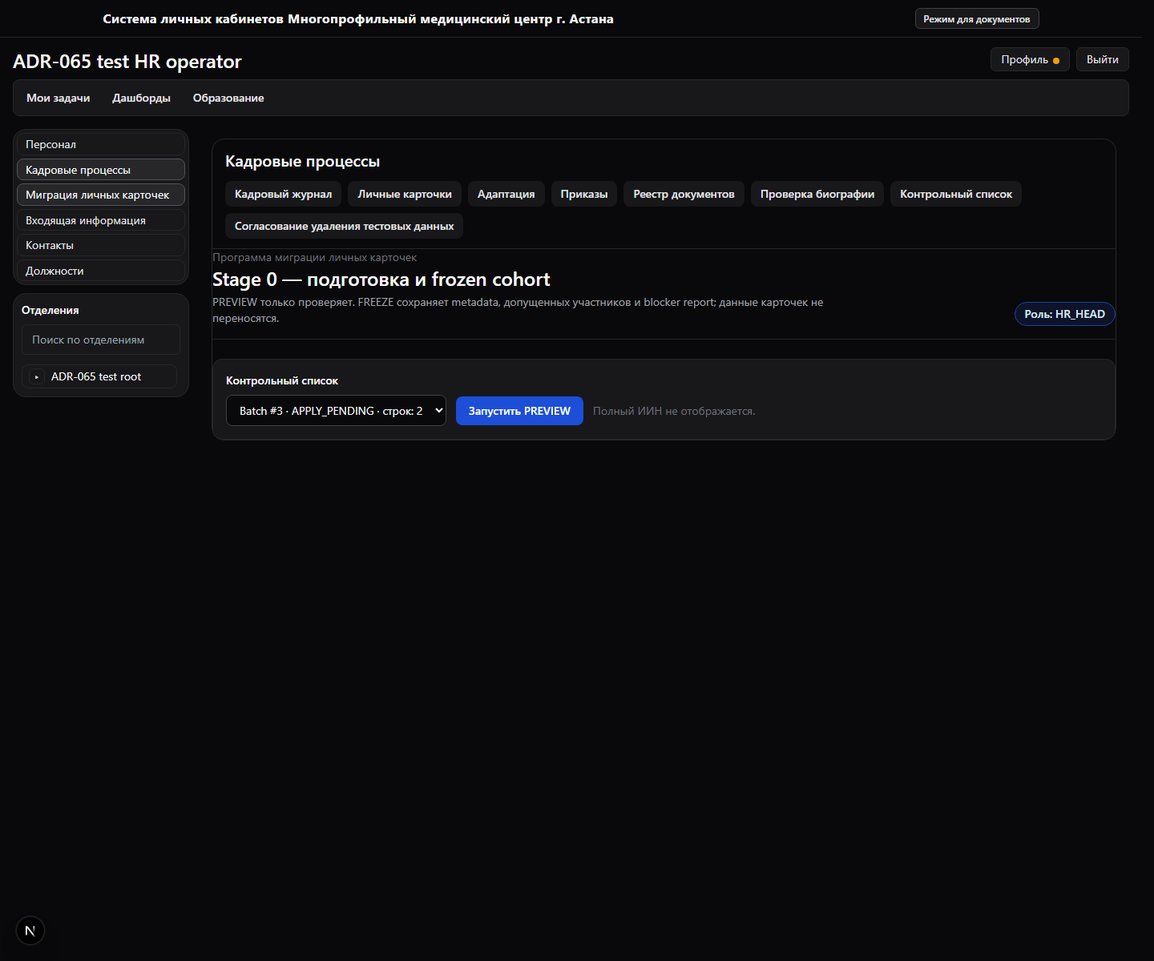
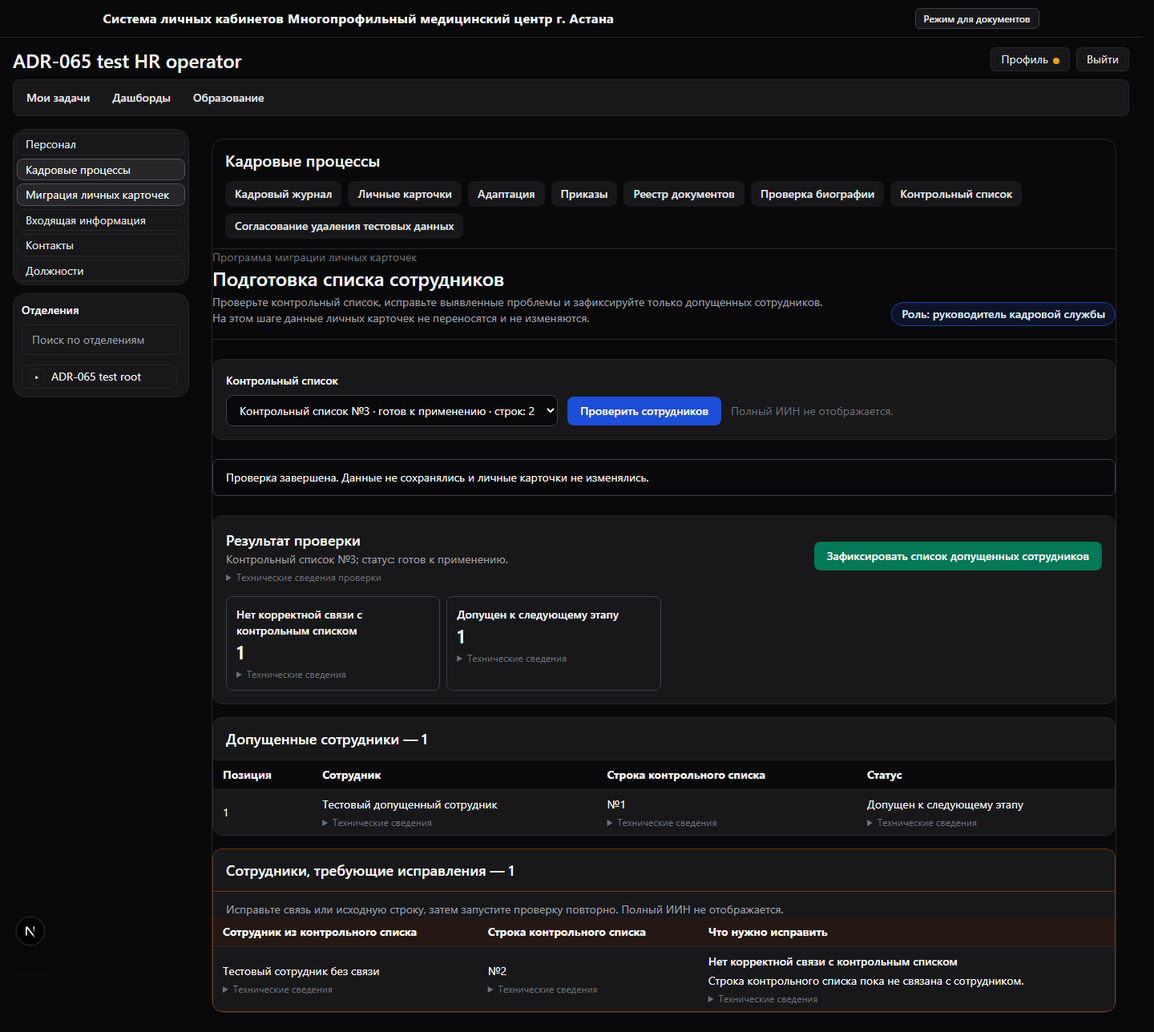
feat(ppr): improve stage zero cohort review UI

diff --git a/corpsite-ui/app/directory/personnel/ppr-migration/PprMigrationPageClient.tsx b/corpsite-ui/app/directory/personnel/ppr-migration/PprMigrationPageClient.tsx
@@ -1,69 +1,79 @@
 "use client";
 
-import { useEffect, useState } from "react";
+import { useEffect, useState, type ReactNode } from "react";
 
 import { apiAuthMe, apiFetchJson } from "@/lib/api";
 import type { MeInfo } from "@/lib/types";
 
 type Batch = { batch_id: number; status: string; imported_at?: string | null; source_row_count: number };
-type Candidate = { position?: number; employee_id: number | null; person_id: number | null; source_batch_id: number; source_row_id: number; safe_fingerprint: string; display_name?: string | null };
-type Blocker = { employee_id?: number | null; person_id?: number | null; source_batch_id?: number | null; source_row_id?: number | null; category: string; reason_code: string; safe_detail: string; candidate_key: string; display_name?: string | null };
+type Candidate = { position?: number; employee_id: number | null; person_id: number | null; source_batch_id: number; source_row_id: number; source_row_number?: number | null; safe_fingerprint: string; display_name?: string | null };
+type Blocker = { employee_id?: number | null; person_id?: number | null; source_batch_id?: number | null; source_row_id?: number | null; source_row_number?: number | null; category: string; reason_code: string; safe_detail: string; candidate_key: string; display_name?: string | null };
 type Preview = { source_batch_id: number; source_batch_status: string; preview_fingerprint: string; counts: Record<string, number>; eligible: Candidate[]; blockers: Blocker[] };
 type Frozen = { stage0_cohort_run_id: number; replay: boolean; counts: Record<string, number> };
 type Cohort = { run: { stage0_cohort_run_id: number; run_kind: string; source_batch_id: number; source_batch_status: string; frozen_at: string; preview_fingerprint: string }; participants: Candidate[] };
 
 const reasonLabels: Record<string, string> = {
-  STAGE0_SOURCE_EMPLOYEE_MISSING: "Источник не связан с сотрудником.",
-  STAGE0_EMPLOYEE_NOT_ACTIVE: "Сотрудник не является активным.",
-  STAGE0_EMPLOYEE_PERSON_MISSING: "Нет однозначной связи Employee → Person.",
-  STAGE0_PERSON_NOT_ACTIVE: "Person объединён, удалён или неактивен.",
-  STAGE0_MULTIPLE_OPERATIONAL_EMPLOYEES: "У Person несколько активных operational Employee.",
-  STAGE0_SOURCE_ANCHOR_NOT_UNIQUE: "В контрольном списке найдено несколько source anchor для сотрудника.",
-  STAGE0_BATCH_PENDING_REMOVALS: "В batch есть неурегулированные удаления; FREEZE запрещён.",
-  STAGE0_PPR_LIFECYCLE_NOT_MATERIALIZABLE: "Lifecycle PPR не допускает materialization/start collection.",
+  STAGE0_SOURCE_EMPLOYEE_MISSING: "Строка контрольного списка пока не связана с сотрудником.",
+  STAGE0_EMPLOYEE_NOT_ACTIVE: "Сотрудник не находится в активном кадровом статусе.",
+  STAGE0_EMPLOYEE_PERSON_MISSING: "Для сотрудника не найдена однозначная связь с личностью.",
+  STAGE0_PERSON_NOT_ACTIVE: "Связанная личность объединена, удалена или неактивна.",
+  STAGE0_MULTIPLE_OPERATIONAL_EMPLOYEES: "Для одной личности найдено несколько активных сотрудников.",
+  STAGE0_SOURCE_ANCHOR_NOT_UNIQUE: "Для сотрудника найдено несколько строк контрольного списка.",
+  STAGE0_BATCH_PENDING_REMOVALS: "В контрольном списке есть неурегулированные удаления; фиксация пока недоступна.",
+  STAGE0_PPR_LIFECYCLE_NOT_MATERIALIZABLE: "Текущий жизненный цикл личной карточки не допускает её подготовку.",
 };
 
-function apiMessage(error: any): string {
-  return String(error?.details?.message ?? error?.message ?? "Не удалось выполнить запрос.");
-}
+const categoryLabels: Record<string, string> = {
+  ELIGIBLE: "Допущен к следующему этапу",
+  BLOCKED_NO_PERSON: "Нет связи с личностью",
+  BLOCKED_AMBIGUOUS_PERSON: "Неоднозначная связь с личностью",
+  BLOCKED_PERSON_MERGED_OR_DELETED: "Личность недоступна",
+  BLOCKED_SOURCE_MISSING: "Нет корректной связи с контрольным списком",
+  BLOCKED_SOURCE_AMBIGUOUS: "Неоднозначная строка контрольного списка",
+  BLOCKED_SOURCE_STATUS: "Недопустимый статус контрольного списка",
+  BLOCKED_SOURCE_DELETION_OR_REBINDING: "Требуется урегулировать изменения контрольного списка",
+  BLOCKED_MATERIALIZATION_PATH: "Нет допустимого пути подготовки личной карточки",
+};
 
-function personLabel(row: { display_name?: string | null; employee_id?: number | null; person_id?: number | null }): string {
-  const name = String(row.display_name ?? "").trim();
-  const ids = `Employee #${row.employee_id ?? "—"} · Person #${row.person_id ?? "—"}`;
-  return name ? `${name} (${ids})` : ids;
-}
+const batchStatusLabels: Record<string, string> = {
+  APPLY_PENDING: "готов к применению",
+  APPLIED: "применён",
+  PARTIALLY_APPLIED: "применён частично",
+};
+
+function batchStatusLabel(status: string): string { return batchStatusLabels[status] ?? status; }
+function apiMessage(error: any): string { return String(error?.details?.message ?? error?.message ?? "Не удалось выполнить запрос."); }
+function personLabel(row: { display_name?: string | null; employee_id?: number | null }): string { return String(row.display_name ?? "").trim() || `Сотрудник #${row.employee_id ?? "—"}`; }
+function technicalIdentity(row: { employee_id?: number | null; person_id?: number | null }): string { return `ID сотрудника: ${row.employee_id ?? "—"}; ID личности: ${row.person_id ?? "—"}`; }
+function technicalCode(code: string): ReactNode { return <details className="mt-1 text-xs text-zinc-500"><summary className="cursor-pointer">Технические сведения</summary><span className="font-mono">{code}</span></details>; }
 
 export default function PprMigrationPageClient() {
   const [batches, setBatches] = useState<Batch[]>([]);
   const [batchId, setBatchId] = useState<number | null>(null);
   const [preview, setPreview] = useState<Preview | null>(null);
   const [cohort, setCohort] = useState<Cohort | null>(null);
+  const [freezeConfirmationOpen, setFreezeConfirmationOpen] = useState(false);
   const [loading, setLoading] = useState(true);
   const [busy, setBusy] = useState(false);
   const [message, setMessage] = useState<string>("");
 
-  useEffect(() => {
-    void (async () => {
-      try {
-        const me: MeInfo = await apiAuthMe();
-        if (String(me.role_code ?? "").toUpperCase() !== "HR_HEAD") { setMessage("Доступ к Stage 0 разрешён только HR_HEAD."); return; }
-        const response = await apiFetchJson<{ items: Batch[] }>("/personnel/ppr-migration/stage-0/source-batches");
-        setBatches(response.items);
-        if (response.items[0]) setBatchId(response.items[0].batch_id);
-      } catch (error) { setMessage(apiMessage(error)); }
-      finally { setLoading(false); }
-    })();
-  }, []);
+  useEffect(() => { void (async () => {
+    try {
+      const me: MeInfo = await apiAuthMe();
+      if (String(me.role_code ?? "").toUpperCase() !== "HR_HEAD") { setMessage("Доступ к подготовке списка сотрудников разрешён только руководителю кадровой службы."); return; }
+      const response = await apiFetchJson<{ items: Batch[] }>("/personnel/ppr-migration/stage-0/source-batches");
+      setBatches(response.items);
+      if (response.items[0]) setBatchId(response.items[0].batch_id);
+    } catch (error) { setMessage(apiMessage(error)); } finally { setLoading(false); }
+  })(); }, []);
 
   async function runPreview() {
     if (!batchId) return;
-    setBusy(true); setMessage(""); setCohort(null);
+    setBusy(true); setMessage(""); setCohort(null); setFreezeConfirmationOpen(false);
     try {
       const result = await apiFetchJson<Preview>("/personnel/ppr-migration/stage-0/preview", { method: "POST", body: { source_batch_id: batchId, correction_details: true } });
-      setPreview(result);
-      setMessage("PREVIEW завершён. Данные не записывались.");
-    } catch (error) { setMessage(apiMessage(error)); }
-    finally { setBusy(false); }
+      setPreview(result); setMessage("Проверка завершена. Данные не сохранялись и личные карточки не изменялись.");
+    } catch (error) { setMessage(apiMessage(error)); } finally { setBusy(false); }
   }
 
   async function freeze() {
@@ -72,33 +82,38 @@ export default function PprMigrationPageClient() {
     try {
       const result = await apiFetchJson<Frozen>("/personnel/ppr-migration/stage-0/freeze", { method: "POST", body: { source_batch_id: preview.source_batch_id, preview_fingerprint: preview.preview_fingerprint } });
       const saved = await apiFetchJson<Cohort>(`/personnel/ppr-migration/stage-0/runs/${result.stage0_cohort_run_id}?correction_details=true`);
-      setCohort(saved);
-      setMessage(result.replay ? `Сохранённый cohort #${result.stage0_cohort_run_id} открыт повторно (replay).` : `Cohort #${result.stage0_cohort_run_id} зафиксирован (FROZEN).`);
-    } catch (error) { setMessage(apiMessage(error)); }
-    finally { setBusy(false); }
+      setCohort(saved); setFreezeConfirmationOpen(false);
+      const accepted = result.counts.ELIGIBLE ?? 0;
+      const blocked = Object.entries(result.counts).filter(([status]) => status !== "ELIGIBLE").reduce((total, [, count]) => total + count, 0);
+      setMessage(result.replay ? `Ранее зафиксированный список №${result.stage0_cohort_run_id} открыт повторно. Личные карточки не изменялись.` : `Список допущенных сотрудников зафиксирован: ${accepted}; заблокировано: ${blocked}. Личные карточки и сведения в них не изменялись.`);
+    } catch (error) { setMessage(apiMessage(error)); } finally { setBusy(false); }
   }
 
-  if (loading) return <div className="rounded-xl border border-zinc-200 bg-white p-4 text-sm dark:border-zinc-800 dark:bg-zinc-900">Загрузка Stage 0…</div>;
+  const eligibleCount = preview?.counts.ELIGIBLE ?? 0;
+  const blockedCount = preview ? Object.entries(preview.counts).filter(([status]) => status !== "ELIGIBLE").reduce((total, [, count]) => total + count, 0) : 0;
+  if (loading) return <div className="rounded-xl border border-zinc-200 bg-white p-4 text-sm dark:border-zinc-800 dark:bg-zinc-900">Загрузка подготовки списка сотрудников…</div>;
   return <main className="space-y-6">
     <header className="flex flex-wrap items-end justify-between gap-3 border-b border-zinc-200 pb-4 dark:border-zinc-800">
-      <div><p className="text-sm text-zinc-500">Программа миграции личных карточек</p><h1 className="text-2xl font-semibold">Stage 0 — подготовка и frozen cohort</h1><p className="mt-1 max-w-3xl text-sm text-zinc-600 dark:text-zinc-400">PREVIEW только проверяет. FREEZE сохраняет metadata, допущенных участников и blocker report; данные карточек не переносятся.</p></div>
-      <span className="rounded-full border border-blue-300 bg-blue-50 px-3 py-1 text-sm font-medium text-blue-900 dark:border-blue-800 dark:bg-blue-950/40 dark:text-blue-100">Роль: HR_HEAD</span>
+      <div><p className="text-sm text-zinc-500">Программа миграции личных карточек</p><h1 className="text-2xl font-semibold">Подготовка списка сотрудников</h1><p className="mt-1 max-w-3xl text-sm text-zinc-600 dark:text-zinc-400">Проверьте контрольный список, исправьте выявленные проблемы и зафиксируйте только допущенных сотрудников. На этом шаге данные личных карточек не переносятся и не изменяются.</p></div>
+      <span className="rounded-full border border-blue-300 bg-blue-50 px-3 py-1 text-sm font-medium text-blue-900 dark:border-blue-800 dark:bg-blue-950/40 dark:text-blue-100">Роль: руководитель кадровой службы</span>
     </header>
     <section className="rounded-xl border border-zinc-200 bg-white p-4 dark:border-zinc-800 dark:bg-zinc-900">
       <label className="block text-sm font-medium" htmlFor="stage0-batch">Контрольный список</label>
-      <div className="mt-2 flex flex-wrap items-center gap-3"><select id="stage0-batch" value={batchId ?? ""} onChange={(e) => { setBatchId(Number(e.target.value)); setPreview(null); setCohort(null); }} className="rounded-lg border border-zinc-300 bg-white px-3 py-2 text-sm dark:border-zinc-700 dark:bg-zinc-950">
-        {batches.length === 0 ? <option value="">Нет batch в допустимом статусе</option> : batches.map((batch) => <option key={batch.batch_id} value={batch.batch_id}>Batch #{batch.batch_id} · {batch.status} · строк: {batch.source_row_count}</option>)}</select>
-        <button type="button" onClick={runPreview} disabled={!batchId || busy} className="rounded-lg bg-blue-700 px-4 py-2 text-sm font-medium text-white disabled:opacity-50">{busy ? "Выполняется…" : "Запустить PREVIEW"}</button>
+      <div className="mt-2 flex flex-wrap items-center gap-3"><select id="stage0-batch" value={batchId ?? ""} onChange={(e) => { setBatchId(Number(e.target.value)); setPreview(null); setCohort(null); setFreezeConfirmationOpen(false); }} className="rounded-lg border border-zinc-300 bg-white px-3 py-2 text-sm dark:border-zinc-700 dark:bg-zinc-950">
+        {batches.length === 0 ? <option value="">Нет контрольных списков в допустимом статусе</option> : batches.map((batch) => <option key={batch.batch_id} value={batch.batch_id}>Контрольный список №{batch.batch_id} · {batchStatusLabel(batch.status)} · строк: {batch.source_row_count}</option>)}</select>
+        <button type="button" onClick={runPreview} disabled={!batchId || busy} className="rounded-lg bg-blue-700 px-4 py-2 text-sm font-medium text-white disabled:opacity-50">{busy ? "Выполняется…" : "Проверить сотрудников"}</button>
         <span className="text-sm text-zinc-500">Полный ИИН не отображается.</span></div>
     </section>
     {message ? <div role="status" className="rounded-lg border border-zinc-300 bg-zinc-50 px-4 py-3 text-sm dark:border-zinc-700 dark:bg-zinc-950">{message}</div> : null}
-    {preview ? <section className="space-y-4"><div className="rounded-xl border border-zinc-200 bg-white p-4 dark:border-zinc-800 dark:bg-zinc-900"><div className="flex flex-wrap items-center justify-between gap-3"><div><h2 className="text-lg font-semibold">Итог PREVIEW</h2><p className="text-sm text-zinc-600 dark:text-zinc-400">Batch #{preview.source_batch_id}, статус источника: {preview.source_batch_status}. Fingerprint: <span className="font-mono text-xs">{preview.preview_fingerprint.slice(0, 12)}…</span></p></div><button type="button" onClick={freeze} disabled={busy} className="rounded-lg bg-emerald-700 px-4 py-2 text-sm font-medium text-white disabled:opacity-50">Зафиксировать cohort (FREEZE)</button></div><div className="mt-4 grid gap-2 sm:grid-cols-2 lg:grid-cols-4">{Object.entries(preview.counts).map(([status, count]) => <div key={status} className="rounded-lg border border-zinc-200 p-3 text-sm dark:border-zinc-700"><div className="font-medium">{status === "ELIGIBLE" ? "Допущены" : status}</div><div className="text-2xl font-semibold">{count}</div></div>)}</div></div>
+    {preview ? <section className="space-y-4"><div className="rounded-xl border border-zinc-200 bg-white p-4 dark:border-zinc-800 dark:bg-zinc-900"><div className="flex flex-wrap items-center justify-between gap-3"><div><h2 className="text-lg font-semibold">Результат проверки</h2><p className="text-sm text-zinc-600 dark:text-zinc-400">Контрольный список №{preview.source_batch_id}; статус: {batchStatusLabel(preview.source_batch_status)}.</p><details className="mt-1 text-xs text-zinc-500"><summary className="cursor-pointer">Технические сведения проверки</summary><span className="font-mono">Контрольный отпечаток: {preview.preview_fingerprint}</span></details></div><button type="button" onClick={() => setFreezeConfirmationOpen(true)} disabled={busy} className="rounded-lg bg-emerald-700 px-4 py-2 text-sm font-medium text-white disabled:opacity-50">Зафиксировать список допущенных сотрудников</button></div><div className="mt-4 grid gap-2 sm:grid-cols-2 lg:grid-cols-4">{Object.entries(preview.counts).map(([status, count]) => <div key={status} className="rounded-lg border border-zinc-200 p-3 text-sm dark:border-zinc-700"><div className="font-medium">{categoryLabels[status] ?? "Требуется проверка"}</div><div className="text-2xl font-semibold">{count}</div>{technicalCode(status)}</div>)}</div></div>
       <CandidateTable title="Допущенные сотрудники" items={preview.eligible} />
       <BlockerTable items={preview.blockers} />
     </section> : null}
-    {cohort ? <section className="rounded-xl border border-emerald-300 bg-emerald-50 p-4 dark:border-emerald-900 dark:bg-emerald-950/25"><h2 className="text-lg font-semibold">Сохранённый cohort #{cohort.run.stage0_cohort_run_id}</h2><p className="text-sm">Статус: FROZEN · batch #{cohort.run.source_batch_id} · сохранён: {new Date(cohort.run.frozen_at).toLocaleString("ru-RU")}</p><CandidateTable title="Участники сохранённого cohort" items={cohort.participants} /></section> : null}
+    {cohort ? <section className="rounded-xl border border-emerald-300 bg-emerald-50 p-4 dark:border-emerald-900 dark:bg-emerald-950/25"><h2 className="text-lg font-semibold">Список допущенных сотрудников зафиксирован</h2><p className="text-sm">Статус: список зафиксирован · контрольный список №{cohort.run.source_batch_id} · сохранён: {new Date(cohort.run.frozen_at).toLocaleString("ru-RU")}</p><details className="mt-1 text-xs text-zinc-600"><summary className="cursor-pointer">Технические сведения</summary><span className="font-mono">Код статуса: FROZEN; ID списка: {cohort.run.stage0_cohort_run_id}</span></details><CandidateTable title="Участники зафиксированного списка" items={cohort.participants} /></section> : null}
+    {freezeConfirmationOpen && preview ? <FreezeConfirmationDialog eligibleCount={eligibleCount} blockedCount={blockedCount} busy={busy} onCancel={() => setFreezeConfirmationOpen(false)} onConfirm={() => void freeze()} /> : null}
   </main>;
 }
 
-function CandidateTable({ title, items }: { title: string; items: Candidate[] }) { return <section className="overflow-hidden rounded-xl border border-zinc-200 bg-white dark:border-zinc-800 dark:bg-zinc-900"><h2 className="border-b border-zinc-200 px-4 py-3 text-lg font-semibold dark:border-zinc-800">{title} — {items.length}</h2><div className="overflow-x-auto"><table className="min-w-full text-sm"><thead className="bg-zinc-100 text-left dark:bg-zinc-950"><tr><th className="px-3 py-2">Позиция</th><th className="px-3 py-2">Сотрудник</th><th className="px-3 py-2">Source row</th><th className="px-3 py-2">Статус</th></tr></thead><tbody>{items.length ? items.map((item) => <tr key={`${item.employee_id}-${item.source_row_id}`} className="border-t border-zinc-200 dark:border-zinc-800"><td className="px-3 py-2">{item.position ?? "—"}</td><td className="px-3 py-2">{personLabel(item)}</td><td className="px-3 py-2">#{item.source_row_id}</td><td className="px-3 py-2">Допущен (ELIGIBLE)</td></tr>) : <tr><td colSpan={4} className="px-3 py-5 text-center text-zinc-500">Нет допущенных сотрудников.</td></tr>}</tbody></table></div></section>; }
-function BlockerTable({ items }: { items: Blocker[] }) { return <section className="overflow-hidden rounded-xl border border-amber-300 bg-white dark:border-amber-900 dark:bg-zinc-900"><h2 className="border-b border-amber-200 px-4 py-3 text-lg font-semibold dark:border-amber-900">Заблокированные сотрудники — {items.length}</h2><div className="overflow-x-auto"><table className="min-w-full text-sm"><thead className="bg-amber-50 text-left dark:bg-amber-950/30"><tr><th className="px-3 py-2">Сотрудник</th><th className="px-3 py-2">Причина</th><th className="px-3 py-2">Технический код</th></tr></thead><tbody>{items.length ? items.map((item) => <tr key={`${item.candidate_key}-${item.reason_code}`} className="border-t border-zinc-200 dark:border-zinc-800"><td className="px-3 py-2">{personLabel(item)}</td><td className="px-3 py-2">{reasonLabels[item.reason_code] ?? item.safe_detail}</td><td className="px-3 py-2 font-mono text-xs">{item.reason_code}</td></tr>) : <tr><td colSpan={3} className="px-3 py-5 text-center text-zinc-500">Нет blockers.</td></tr>}</tbody></table></div></section>; }
+function FreezeConfirmationDialog({ eligibleCount, blockedCount, busy, onCancel, onConfirm }: { eligibleCount: number; blockedCount: number; busy: boolean; onCancel: () => void; onConfirm: () => void }) { return <div className="fixed inset-0 z-50 flex items-center justify-center bg-black/40 p-4"><div role="dialog" aria-modal="true" aria-labelledby="stage0-freeze-title" className="w-full max-w-lg rounded-xl border border-zinc-200 bg-white p-5 shadow-xl dark:border-zinc-800 dark:bg-zinc-950" data-testid="stage0-freeze-confirmation"><h2 id="stage0-freeze-title" className="text-lg font-semibold">Зафиксировать список допущенных сотрудников?</h2><p className="mt-3 text-sm text-zinc-700 dark:text-zinc-300">Будет сохранён список из {eligibleCount} допущенных сотрудников. Заблокированных сотрудников: {blockedCount}; они в список не войдут.</p><p className="mt-2 text-sm text-zinc-700 dark:text-zinc-300">Данные личных карточек, общие сведения, образование и другие разделы на этом шаге не изменяются.</p><div className="mt-5 flex flex-wrap justify-end gap-2"><button type="button" disabled={busy} onClick={onCancel} className="rounded-lg border border-zinc-300 px-4 py-2 text-sm font-medium text-zinc-800 disabled:opacity-50 dark:border-zinc-700 dark:text-zinc-200">Отмена</button><button type="button" disabled={busy} onClick={onConfirm} className="rounded-lg bg-emerald-700 px-4 py-2 text-sm font-medium text-white disabled:opacity-50">{busy ? "Сохранение…" : "Зафиксировать список"}</button></div></div></div>; }
+function CandidateTable({ title, items }: { title: string; items: Candidate[] }) { return <section className="overflow-hidden rounded-xl border border-zinc-200 bg-white dark:border-zinc-800 dark:bg-zinc-900"><h2 className="border-b border-zinc-200 px-4 py-3 text-lg font-semibold dark:border-zinc-800">{title} — {items.length}</h2><div className="overflow-x-auto"><table className="min-w-full text-sm"><thead className="bg-zinc-100 text-left dark:bg-zinc-950"><tr><th className="px-3 py-2">Позиция</th><th className="px-3 py-2">Сотрудник</th><th className="px-3 py-2">Строка контрольного списка</th><th className="px-3 py-2">Статус</th></tr></thead><tbody>{items.length ? items.map((item) => <tr key={`${item.employee_id}-${item.source_row_id}`} className="border-t border-zinc-200 dark:border-zinc-800"><td className="px-3 py-2">{item.position ?? "—"}</td><td className="px-3 py-2">{personLabel(item)}{technicalCode(technicalIdentity(item))}</td><td className="px-3 py-2">№{item.source_row_number ?? item.source_row_id}{technicalCode(`ID строки: ${item.source_row_id}`)}</td><td className="px-3 py-2">Допущен к следующему этапу{technicalCode("ELIGIBLE")}</td></tr>) : <tr><td colSpan={4} className="px-3 py-5 text-center text-zinc-500">Нет допущенных сотрудников.</td></tr>}</tbody></table></div></section>; }
+function BlockerTable({ items }: { items: Blocker[] }) { return <section className="overflow-hidden rounded-xl border border-amber-300 bg-white dark:border-amber-900 dark:bg-zinc-900"><h2 className="border-b border-amber-200 px-4 py-3 text-lg font-semibold dark:border-amber-900">Сотрудники, требующие исправления — {items.length}</h2><p className="px-4 pt-3 text-sm text-zinc-600 dark:text-zinc-400">Исправьте связь или исходную строку, затем запустите проверку повторно. Полный ИИН не отображается.</p><div className="overflow-x-auto"><table className="min-w-full text-sm"><thead className="bg-amber-50 text-left dark:bg-amber-950/30"><tr><th className="px-3 py-2">Сотрудник из контрольного списка</th><th className="px-3 py-2">Строка контрольного списка</th><th className="px-3 py-2">Что нужно исправить</th></tr></thead><tbody>{items.length ? items.map((item) => <tr key={`${item.candidate_key}-${item.reason_code}`} className="border-t border-zinc-200 dark:border-zinc-800"><td className="px-3 py-2">{personLabel(item)}{technicalCode(technicalIdentity(item))}</td><td className="px-3 py-2">№{item.source_row_number ?? item.source_row_id ?? "—"}{item.source_row_id ? technicalCode(`ID строки: ${item.source_row_id}`) : null}</td><td className="px-3 py-2"><div className="font-medium">{categoryLabels[item.category] ?? "Требуется проверка"}</div><div className="mt-1">{reasonLabels[item.reason_code] ?? item.safe_detail}</div>{technicalCode(`${item.category}; ${item.reason_code}`)}</td></tr>) : <tr><td colSpan={3} className="px-3 py-5 text-center text-zinc-500">Нет заблокированных сотрудников.</td></tr>}</tbody></table></div></section>; }

diff --git a/corpsite-ui/app/directory/personnel/ppr-migration/PprMigrationPageClient.test.tsx b/corpsite-ui/app/directory/personnel/ppr-migration/PprMigrationPageClient.test.tsx
@@ -1,0 +1,54 @@
+import { cleanup, fireEvent, render, screen, waitFor } from "@testing-library/react";
+import { afterEach, describe, expect, it, vi } from "vitest";
+
+import PprMigrationPageClient from "./PprMigrationPageClient";
+
+const apiAuthMe = vi.fn();
+const apiFetchJson = vi.fn();
+
+vi.mock("@/lib/api", () => ({
+  apiAuthMe: () => apiAuthMe(),
+  apiFetchJson: (...args: unknown[]) => apiFetchJson(...args),
+}));
+
+const preview = {
+  source_batch_id: 3,
+  source_batch_status: "APPLY_PENDING",
+  preview_fingerprint: "a".repeat(64),
+  counts: { ELIGIBLE: 1, BLOCKED_SOURCE_MISSING: 1 },
+  eligible: [{ position: 1, employee_id: 10, person_id: 20, source_batch_id: 3, source_row_id: 31, source_row_number: 5, safe_fingerprint: "b".repeat(64), display_name: "Тестовый допущенный сотрудник" }],
+  blockers: [{ employee_id: null, person_id: null, source_batch_id: 3, source_row_id: 32, source_row_number: 6, category: "BLOCKED_SOURCE_MISSING", reason_code: "STAGE0_SOURCE_EMPLOYEE_MISSING", safe_detail: "STAGE0_SOURCE_EMPLOYEE_MISSING", candidate_key: "c".repeat(64), display_name: "Тестовый сотрудник без связи" }],
+};
+
+afterEach(() => { cleanup(); vi.clearAllMocks(); });
+
+describe("PprMigrationPageClient", () => {
+  it("uses Russian HR labels, shows correction context, and confirms freeze", async () => {
+    apiAuthMe.mockResolvedValue({ user_id: 1, role_code: "HR_HEAD" });
+    apiFetchJson.mockImplementation((path: string) => {
+      if (path.endsWith("/source-batches")) return Promise.resolve({ items: [{ batch_id: 3, status: "APPLY_PENDING", source_row_count: 2 }] });
+      if (path.endsWith("/preview")) return Promise.resolve(preview);
+      if (path.endsWith("/freeze")) return Promise.resolve({ stage0_cohort_run_id: 4, replay: false, counts: preview.counts });
+      if (path.includes("/runs/4")) return Promise.resolve({ run: { stage0_cohort_run_id: 4, run_kind: "BASE", source_batch_id: 3, source_batch_status: "APPLY_PENDING", frozen_at: "2026-09-09T10:00:00Z", preview_fingerprint: preview.preview_fingerprint }, participants: preview.eligible });
+      throw new Error(`Unexpected request ${path}`);
+    });
+
+    render(<PprMigrationPageClient />);
+    expect(await screen.findByRole("button", { name: "Проверить сотрудников" })).toBeEnabled();
+    fireEvent.click(screen.getByRole("button", { name: "Проверить сотрудников" }));
+
+    expect(await screen.findByText("Тестовый сотрудник без связи")).toBeInTheDocument();
+    expect(screen.getByText("№6")).toBeInTheDocument();
+    expect(screen.getByText("Строка контрольного списка пока не связана с сотрудником.")).toBeInTheDocument();
+    expect(screen.queryByText("Fingerprint:")).not.toBeInTheDocument();
+
+    fireEvent.click(screen.getByRole("button", { name: "Зафиксировать список допущенных сотрудников" }));
+    expect(screen.getByTestId("stage0-freeze-confirmation")).toBeInTheDocument();
+    expect(screen.getByText("Будет сохранён список из 1 допущенных сотрудников. Заблокированных сотрудников: 1; они в список не войдут.")).toBeInTheDocument();
+    expect(screen.getByText("Данные личных карточек, общие сведения, образование и другие разделы на этом шаге не изменяются.")).toBeInTheDocument();
+
+    fireEvent.click(screen.getByRole("button", { name: "Зафиксировать список" }));
+    await waitFor(() => expect(screen.getByText(/Список допущенных сотрудников зафиксирован: 1; заблокировано: 1/)).toBeInTheDocument());
+    expect(screen.getByText("Список допущенных сотрудников зафиксирован", { selector: "h2" })).toBeInTheDocument();
+  });
+});

diff --git a/app/services/ppr_stage0_cohort_service.py b/app/services/ppr_stage0_cohort_service.py
@@ -90,10 +90,11 @@ def _scan(conn: Connection, *, source_batch_id: int, supplemental_of_run_id: int
              WHERE r.batch_id=:batch_id ORDER BY p.person_id FOR SHARE
         """), {"batch_id": source_batch_id})
     rows = conn.execute(text(f"""
-        SELECT r.row_id, r.employee_id AS source_employee_id,
+        SELECT r.row_id, r.source_row_number, r.employee_id AS source_employee_id,
                e.employee_id, e.person_id, e.org_unit_id, e.is_active, e.operational_status, e.updated_at AS employee_updated_at,
                p.person_status, p.merged_into_person_id, p.updated_at AS person_updated_at,
-               p.full_name AS correction_display_name,
+               r.normalized_payload ->> 'full_name' AS source_display_name,
+               p.full_name AS person_display_name,
                prm.ppr_lifecycle_state, prm.version AS ppr_version,
                (SELECT min(n.normalized_record_id) FROM public.hr_import_normalized_records n
                  WHERE n.batch_id=r.batch_id AND n.row_id=r.row_id AND n.employee_id=r.employee_id) AS identity_provenance_record_id,
@@ -134,15 +135,19 @@ def _scan(conn: Connection, *, source_batch_id: int, supplemental_of_run_id: int
             category, reason = BLOCKED_MATERIALIZATION_PATH, "STAGE0_PPR_LIFECYCLE_NOT_MATERIALIZABLE"
         snapshot = {
             "employee_id": employee_id, "person_id": item.get("person_id"), "source_batch_id": source_batch_id,
-            "source_row_id": item["row_id"], "identity_provenance_record_id": item.get("identity_provenance_record_id"),
+            "source_row_id": item["row_id"], "source_row_number": item.get("source_row_number"),
+            "identity_provenance_record_id": item.get("identity_provenance_record_id"),
             "employee_updated_at": item.get("employee_updated_at"), "person_updated_at": item.get("person_updated_at"),
             "ppr_lifecycle_state": item.get("ppr_lifecycle_state") or "NOT_MATERIALIZED", "ppr_lifecycle_version": item.get("ppr_version"),
             "category": category, "reason_code": reason,
         }
         outcome = {**snapshot, "safe_detail": reason, "safe_fingerprint": _hash(snapshot), "candidate_key": _safe_candidate_key(employee_id, item["row_id"])}
-        if include_correction_details and item.get("correction_display_name"):
-            # Protected HR_HEAD view: minimum correction context only, never IIN or raw source.
-            outcome["display_name"] = str(item["correction_display_name"])
+        if include_correction_details:
+            # Protected HR_HEAD view: source-list FIO plus a row number is the
+            # minimum correction context.  Never return IIN or raw payload.
+            name = item.get("source_display_name") or item.get("person_display_name")
+            if name:
+                outcome["display_name"] = str(name)
         outcomes.append(outcome)
     eligible = [outcome for outcome in outcomes if outcome["category"] == ELIGIBLE]
     for position, outcome in enumerate(eligible, 1):
@@ -150,7 +155,11 @@ def _scan(conn: Connection, *, source_batch_id: int, supplemental_of_run_id: int
     fingerprint_payload = {
         "policy_version": POLICY_VERSION, "source_batch_id": source_batch_id, "source_type": batch["source_type"],
         "source_batch_status": batch["status"], "pending_removal_count": pending_removals,
-        "supplemental_of_run_id": supplemental_of_run_id, "outcomes": outcomes,
+        # Correction-only display data must never affect a persisted cohort
+        # identity.  Otherwise a harmless request projection would make a
+        # freshly viewed preview look stale during FREEZE.
+        "supplemental_of_run_id": supplemental_of_run_id,
+        "outcomes": [{key: value for key, value in outcome.items() if key != "display_name"} for outcome in outcomes],
     }
     return {
         "source_batch_id": source_batch_id, "source_type": batch["source_type"], "source_batch_status": batch["status"],
@@ -207,14 +216,26 @@ def freeze_stage0_cohort(conn: Connection, *, source_batch_id: int, preview_fing
 def get_stage0_run(conn: Connection, *, run_id: int, scope: dict[str, Any] | None = None, include_correction_details: bool = False) -> dict[str, Any]:
     run = conn.execute(text("SELECT stage0_cohort_run_id,run_kind,supplemental_of_run_id,source_batch_id,source_batch_status,preview_fingerprint,policy_version,frozen_at FROM public.ppr_stage0_cohort_runs WHERE stage0_cohort_run_id=:run_id"), {"run_id": run_id}).mappings().one_or_none()
     if run is None: raise Stage0NotFoundError("STAGE0_RUN_NOT_FOUND")
-    participants = [dict(row) for row in conn.execute(text("""SELECT p.position,p.employee_id,p.person_id,p.source_batch_id,p.source_row_id,p.safe_fingerprint,e.org_unit_id,person.full_name AS correction_display_name FROM public.ppr_stage0_cohort_participants p JOIN public.employees e ON e.employee_id=p.employee_id JOIN public.persons person ON person.person_id=p.person_id WHERE p.stage0_cohort_run_id=:run_id ORDER BY p.position"""), {"run_id": run_id}).mappings()]
+    participants = [dict(row) for row in conn.execute(text("""
+        SELECT p.position,p.employee_id,p.person_id,p.source_batch_id,p.source_row_id,
+               p.safe_fingerprint,e.org_unit_id,r.source_row_number,
+               r.normalized_payload ->> 'full_name' AS source_display_name,
+               person.full_name AS person_display_name
+        FROM public.ppr_stage0_cohort_participants p
+        JOIN public.employees e ON e.employee_id=p.employee_id
+        JOIN public.persons person ON person.person_id=p.person_id
+        JOIN public.hr_import_rows r ON r.row_id=p.source_row_id
+        WHERE p.stage0_cohort_run_id=:run_id
+        ORDER BY p.position
+    """), {"run_id": run_id}).mappings()]
     # A changed scope is fail-closed; no partial historical cohort disclosure.
     if any(not _scope_allows(scope, p.pop("org_unit_id", None)) for p in participants):
         raise Stage0ConflictError("STAGE0_RUN_OUT_OF_SCOPE")
     for participant in participants:
-        name = participant.pop("correction_display_name", None)
-        if include_correction_details and name:
-            participant["display_name"] = str(name)
+        source_name = participant.pop("source_display_name", None)
+        person_name = participant.pop("person_display_name", None)
+        if include_correction_details and (source_name or person_name):
+            participant["display_name"] = str(source_name or person_name)
     return {"run": dict(run), "participants": participants}
 
 

diff --git a/tests/test_ppr_stage0_cohort_postgres.py b/tests/test_ppr_stage0_cohort_postgres.py
@@ -31,8 +31,14 @@ def _seed_synthetic_candidate(conn):
     """), {"file": f"stage0-{marker}.xlsx", "code": f"stage0-{marker}", "actor": actor}).scalar_one()
     conn.execute(text("""
         INSERT INTO public.hr_import_rows(batch_id,source_sheet,source_row_number,raw_payload,normalized_payload,employee_id)
-        VALUES(:batch_id,'Synthetic',1,'{}'::jsonb,'{}'::jsonb,:employee_id)
-    """), {"batch_id": batch_id, "employee_id": employee_id})
+        VALUES(:batch_id,'Synthetic',1,'{}'::jsonb,CAST(:eligible_payload AS JSONB),:employee_id),
+              (:batch_id,'Synthetic',2,'{}'::jsonb,CAST(:blocked_payload AS JSONB),NULL)
+    """), {
+        "batch_id": batch_id,
+        "employee_id": employee_id,
+        "eligible_payload": '{"full_name":"Stage Zero Eligible"}',
+        "blocked_payload": '{"full_name":"Stage Zero Blocked"}',
+    })
     return int(actor), int(batch_id), int(employee_id)
 
 
@@ -43,8 +49,14 @@ def test_preview_is_read_only_and_freeze_is_replayable_on_corpsite_test():
             assert conn.execute(text("SELECT current_database()")).scalar_one() == "corpsite_test"
             actor, batch_id, _ = _seed_synthetic_candidate(conn)
             ppr_before = conn.execute(text("SELECT count(*) FROM public.personnel_record_metadata")).scalar_one()
-            preview = preview_stage0_cohort(conn, source_batch_id=batch_id)
+            preview = preview_stage0_cohort(conn, source_batch_id=batch_id, include_correction_details=True)
+            safe_preview = preview_stage0_cohort(conn, source_batch_id=batch_id)
+            assert preview["preview_fingerprint"] == safe_preview["preview_fingerprint"]
             assert len(preview["eligible"]) == 1
+            assert preview["eligible"][0]["display_name"] == "Stage Zero Eligible"
+            assert preview["eligible"][0]["source_row_number"] == 1
+            assert preview["blockers"][0]["display_name"] == "Stage Zero Blocked"
+            assert preview["blockers"][0]["source_row_number"] == 2
             assert conn.execute(text("SELECT count(*) FROM public.ppr_stage0_cohort_runs WHERE source_batch_id=:batch"), {"batch": batch_id}).scalar_one() == 0
             frozen = freeze_stage0_cohort(conn, source_batch_id=batch_id, preview_fingerprint=preview["preview_fingerprint"], actor_user_id=actor)
             replay = freeze_stage0_cohort(conn, source_batch_id=batch_id, preview_fingerprint=preview["preview_fingerprint"], actor_user_id=actor)

diff --git a/scripts/seed_stage0_demo.py b/scripts/seed_stage0_demo.py
@@ -48,9 +48,14 @@ def main() -> int:
         """), {"file": f"stage0-demo-{marker}.xlsx", "code": f"stage0-demo-{marker}", "actor": actor}).scalar_one()
         conn.execute(text("""
             INSERT INTO public.hr_import_rows(batch_id,source_sheet,source_row_number,raw_payload,normalized_payload,employee_id)
-            VALUES(:batch_id,'Synthetic',1,'{}'::jsonb,'{}'::jsonb,:employee_id),
-                  (:batch_id,'Synthetic',2,'{}'::jsonb,'{}'::jsonb,NULL)
-        """), {"batch_id": batch_id, "employee_id": employee_id})
+            VALUES(:batch_id,'Synthetic',1,'{}'::jsonb,CAST(:eligible_payload AS JSONB),:employee_id),
+                  (:batch_id,'Synthetic',2,'{}'::jsonb,CAST(:blocked_payload AS JSONB),NULL)
+        """), {
+            "batch_id": batch_id,
+            "employee_id": employee_id,
+            "eligible_payload": '{"full_name":"Тестовый допущенный сотрудник"}',
+            "blocked_payload": '{"full_name":"Тестовый сотрудник без связи"}',
+        })
     print(f"Created synthetic Stage 0 scenario in corpsite_test: batch_id={batch_id}; eligible_employee_id={employee_id}")
     return 0
 

diff --git a/app/api/ppr_stage0_cohort_schemas.py b/app/api/ppr_stage0_cohort_schemas.py
@@ -1,4 +1,9 @@
-"""Safe Stage 0 PREVIEW/FREEZE API contracts: no IIN, FIO, or raw source payload."""
+"""Safe Stage 0 PREVIEW/FREEZE API contracts: no IIN or raw source payload.
+
+``display_name`` is deliberately limited correction context for an authorized
+HR_HEAD view.  It is populated only on requests that explicitly ask for
+correction details and never contains an IIN.
+"""
 from __future__ import annotations
 from datetime import datetime
 from typing import Dict, List, Optional
@@ -18,6 +23,7 @@ class Stage0ParticipantOut(BaseModel):
     person_id: int
     source_batch_id: int
     source_row_id: int
+    source_row_number: Optional[int] = None
     safe_fingerprint: str
     display_name: Optional[str] = None
 
@@ -26,6 +32,7 @@ class Stage0BlockerOut(BaseModel):
     person_id: Optional[int] = None
     source_batch_id: Optional[int] = None
     source_row_id: Optional[int] = None
+    source_row_number: Optional[int] = None
     category: str
     reason_code: str
     safe_detail: str

diff --git a/tests/test_ppr_stage0_cohort_unit.py b/tests/test_ppr_stage0_cohort_unit.py
@@ -31,6 +31,8 @@ def test_stage0_batch_policy_and_categories_are_fail_closed() -> None:
     assert BLOCKED_SOURCE_DELETION_OR_REBINDING.startswith("BLOCKED_")
 
 
-def test_safe_api_contracts_do_not_expose_iin_or_name_fields() -> None:
+def test_safe_api_contracts_expose_only_authorized_display_name_not_raw_identity_payload() -> None:
     fields = set(Stage0ParticipantOut.model_fields) | set(Stage0BlockerOut.model_fields)
     assert not fields.intersection({"iin", "full_iin", "full_name", "first_name", "last_name", "raw_payload"})
+    assert "display_name" in fields
+    assert "source_row_number" in fields
